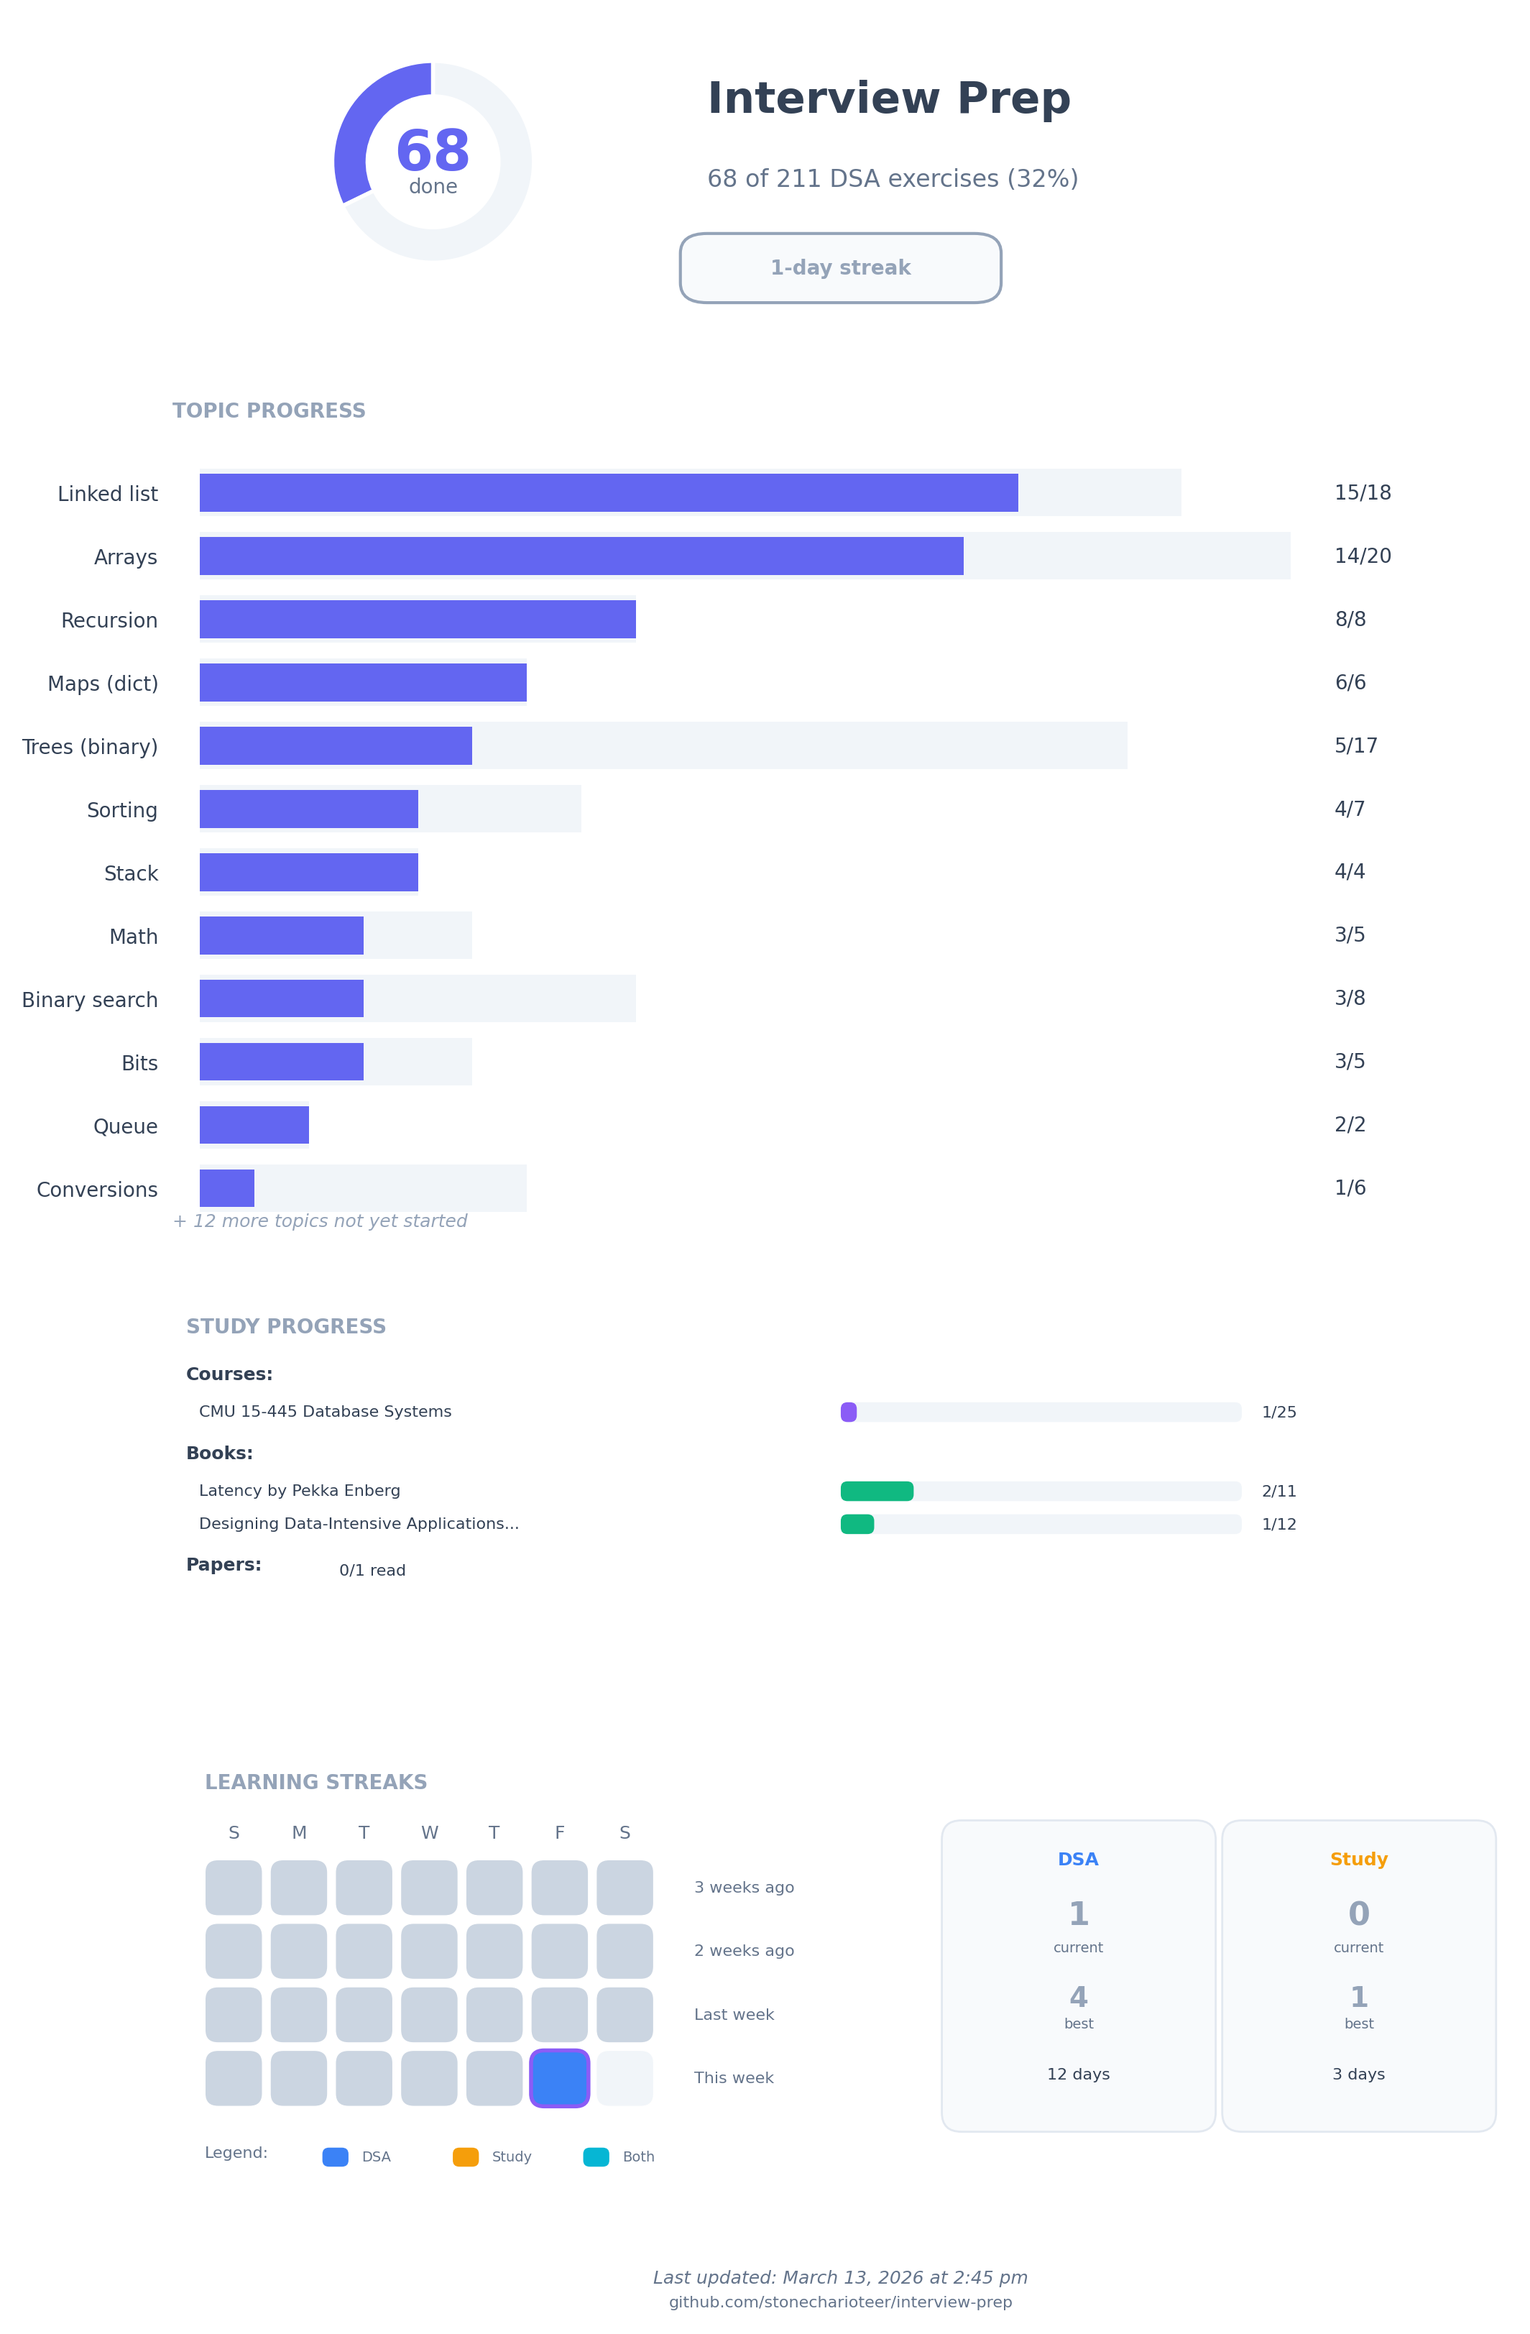
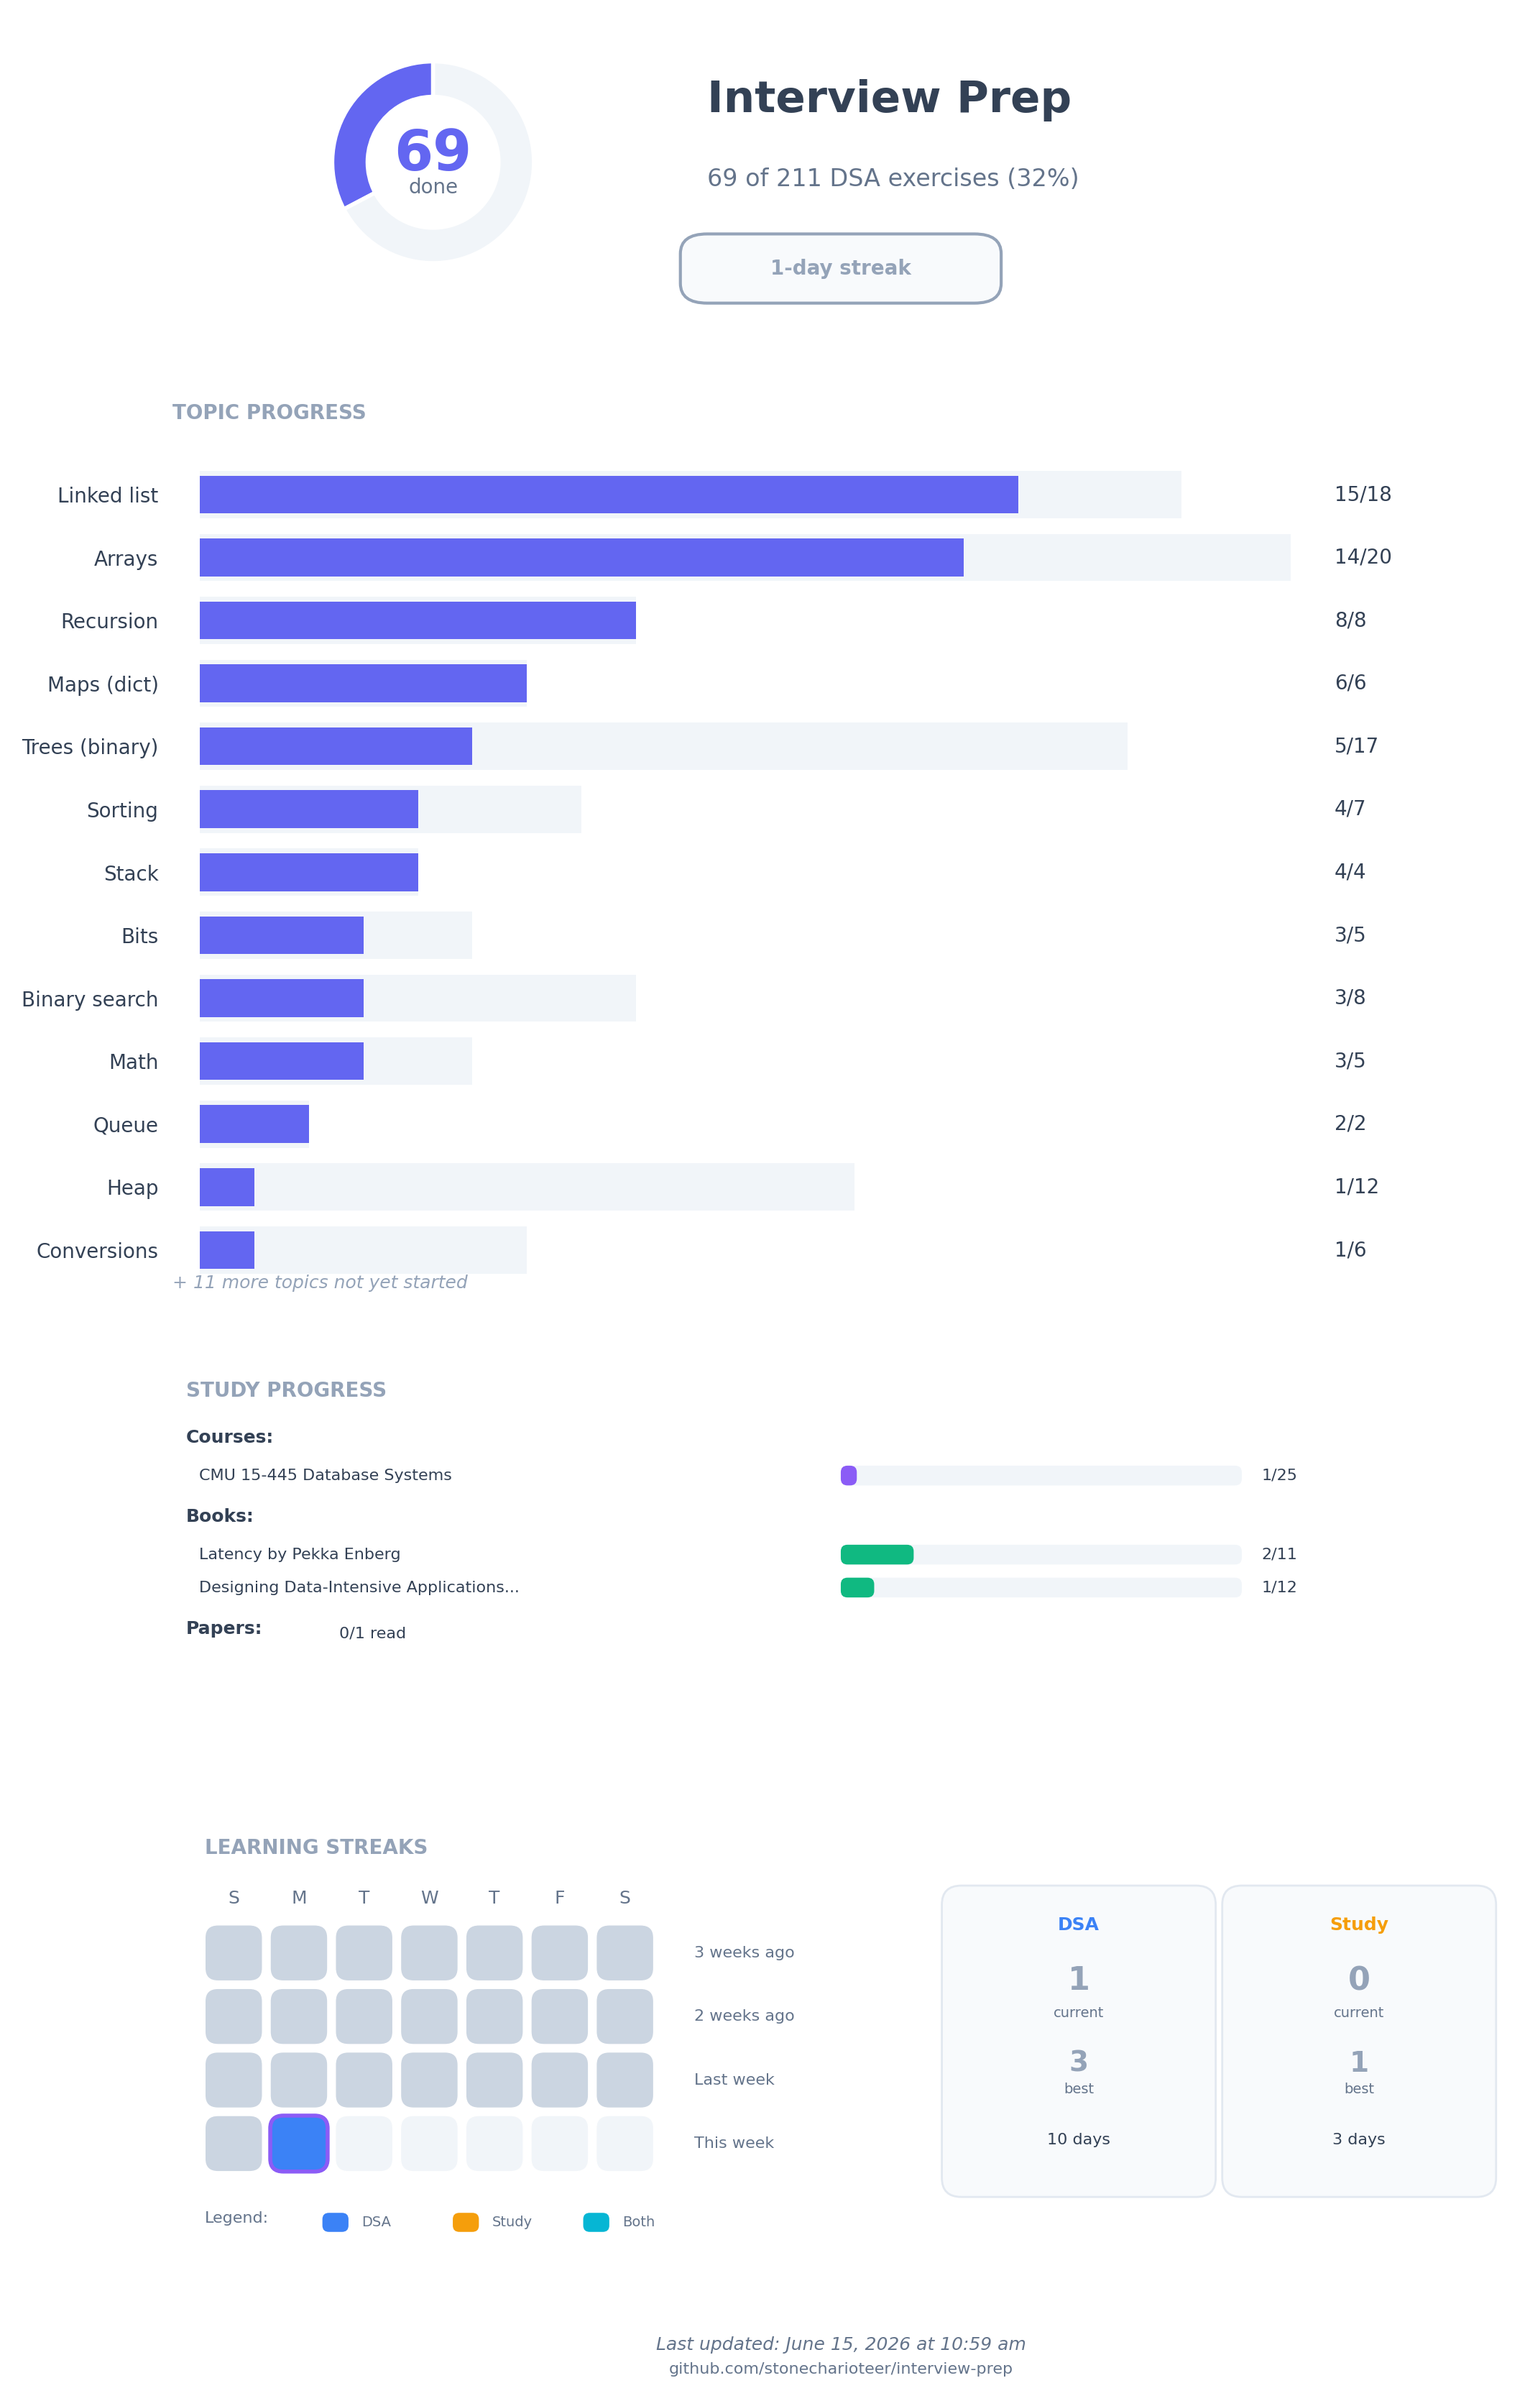
chore: add pre-commit hooks, update progress script to only look at dsa solutions for commits

diff --git a/scripts/progress/parsing.py b/scripts/progress/parsing.py
@@ -126,26 +126,42 @@ def get_solved_dates_from_git(repo_root: Path) -> dict[str, dict[str, str]]:
 
 
 def get_commit_dates(repo_root: Path) -> set[str]:
+    """Return dates for commits that changed DSA solution code only.
+
+    The progress plot uses this for the DSA activity calendar. Keep it scoped to
+    solution directories so dist-sys work, test fixture changes, tooling-only
+    commits, and repo-reorganization refactors do not count as DSA practice
+    activity.
+    """
     try:
         result = subprocess.run(
             [
                 "git",
                 "log",
-                "--pretty=format:%ad",
+                "--pretty=format:%ad|%s",
                 "--date=short",
                 "--",
                 "dsa/python/src/",
-                "dsa/python/test/",
-                ":!*.png",
-                ":!*.toml",
-                ":!*.lock",
+                "dsa/js/src/",
+                "dsa/rust/src/",
             ],
             capture_output=True,
             text=True,
             cwd=repo_root,
             check=True,
         )
-        return set(d for d in result.stdout.strip().split("\n") if d)
+
+        ignored_prefixes = ("refactor", "chore")
+        dates = set()
+        for line in result.stdout.strip().split("\n"):
+            if not line or "|" not in line:
+                continue
+            date, subject = line.split("|", 1)
+            subject_type = subject.split(":", 1)[0].split("(", 1)[0].strip().lower()
+            if subject_type in ignored_prefixes:
+                continue
+            dates.add(date)
+        return dates
     except subprocess.CalledProcessError:
         return set()
 

diff --git a/exercises.md b/exercises.md
@@ -1,6 +1,6 @@
 # Exercise List
 
-**Progress: 68/211 exercises completed in Python (32%)**
+**Progress: 69/211 exercises completed in Python (32%)**
 
 1. Arrays: `min.` 🐍[x] 🦀[ ] 🟨[ ]
 2. Arrays: `max.` 🐍[x] 🦀[ ] 🟨[ ]
@@ -61,7 +61,7 @@
 57. Linked list: `reverse (iterative).` 🐍[x] 🦀[ ] 🟨[ ]
 58. Maps (dict): `merge_counts from two dicts.` 🐍[x] 🦀[ ] 🟨[ ]
 59. Trees (binary): `inorder traversal.` 🐍[x] 🦀[ ] 🟨[ ]
-60. Heap (min): `define structure, implement insert.` 🐍[ ] 🦀[ ] 🟨[ ]
+60. Heap (min): `define structure, implement insert.` 🐍[x] 🦀[ ] 🟨[ ]
 61. Arrays: `two_sum (return indices, hash map approach).` 🐍[ ] 🦀[ ] 🟨[ ]
 62. Two pointers: `two_sum_sorted (sorted array, O(1) space).` 🐍[ ] 🦀[ ] 🟨[ ]
 63. Linked list: `middle_node.` 🐍[x] 🦀[ ] 🟨[ ]
